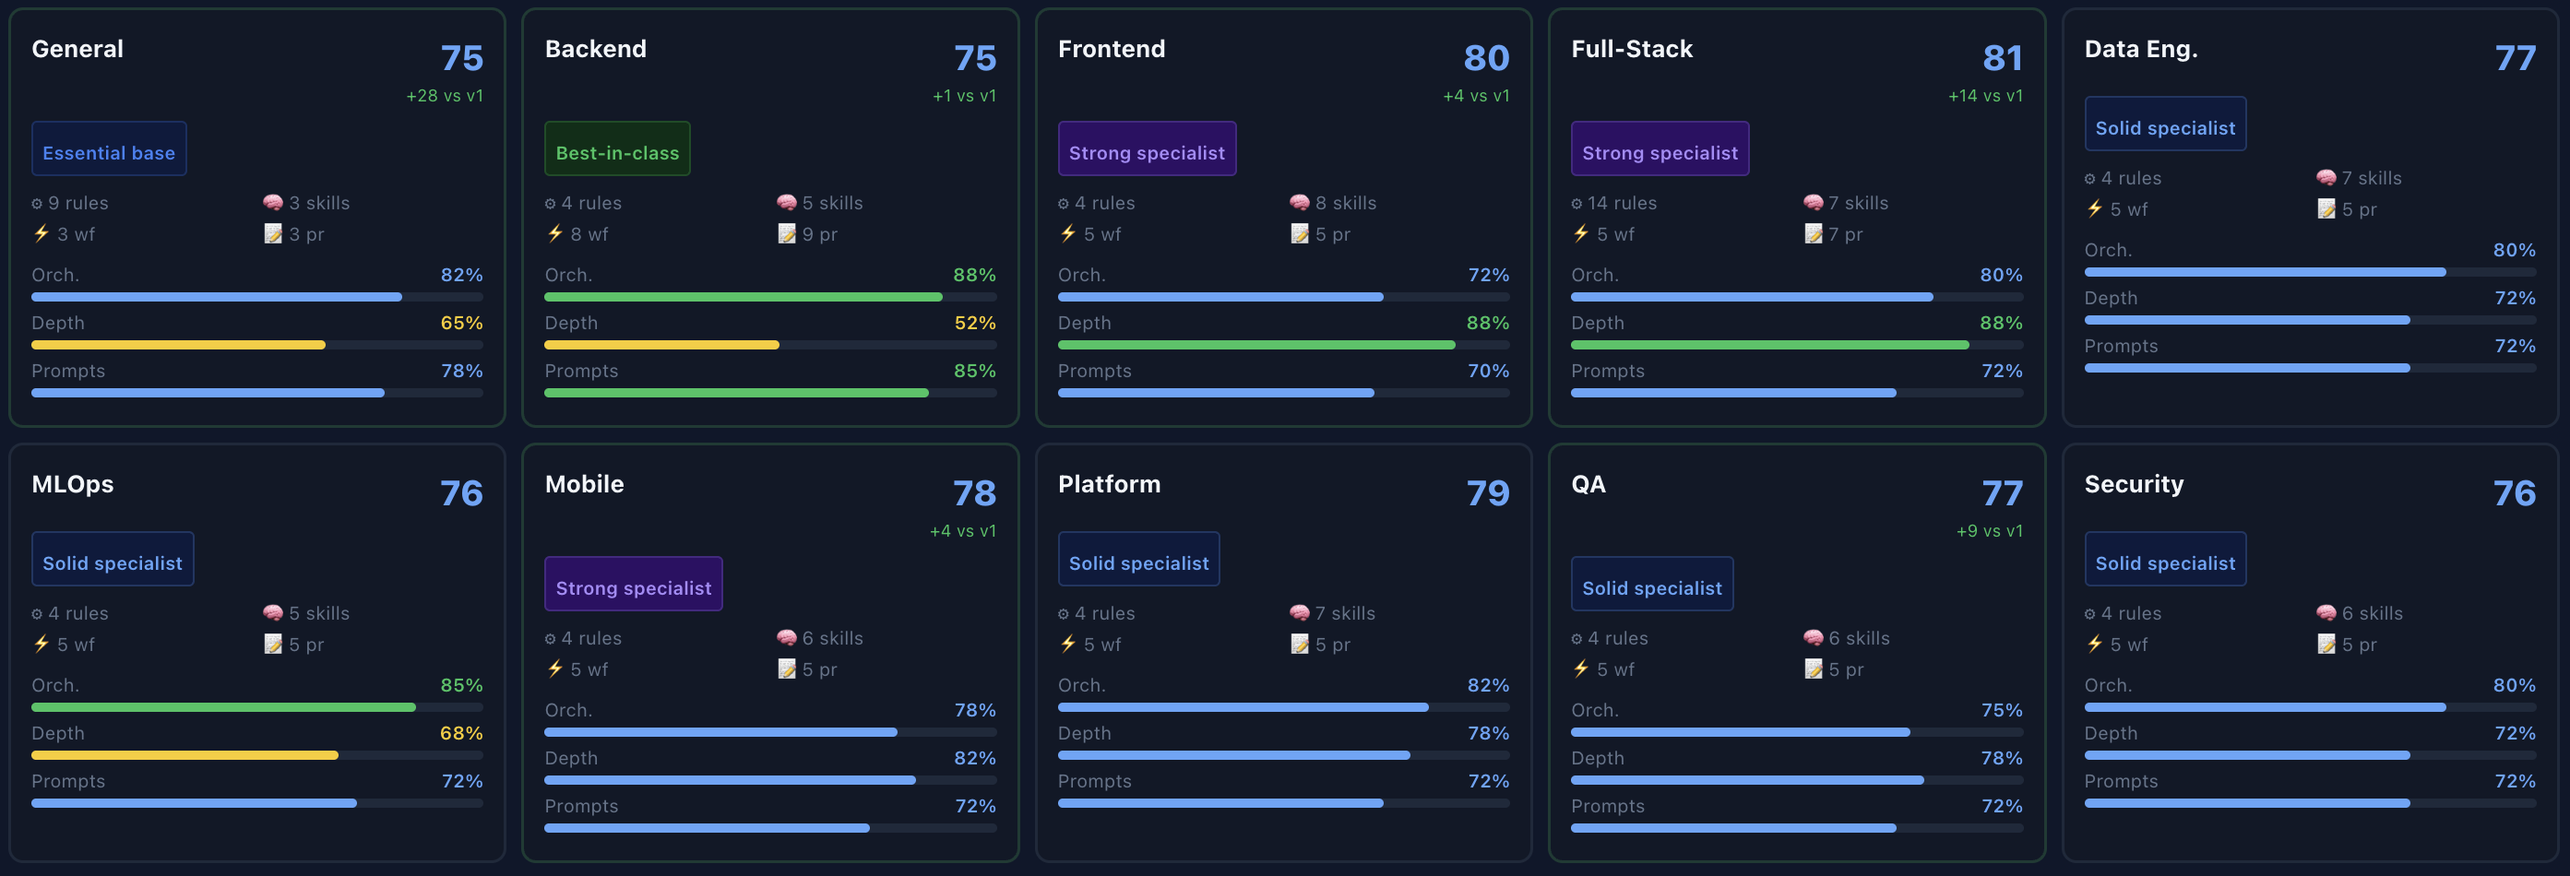
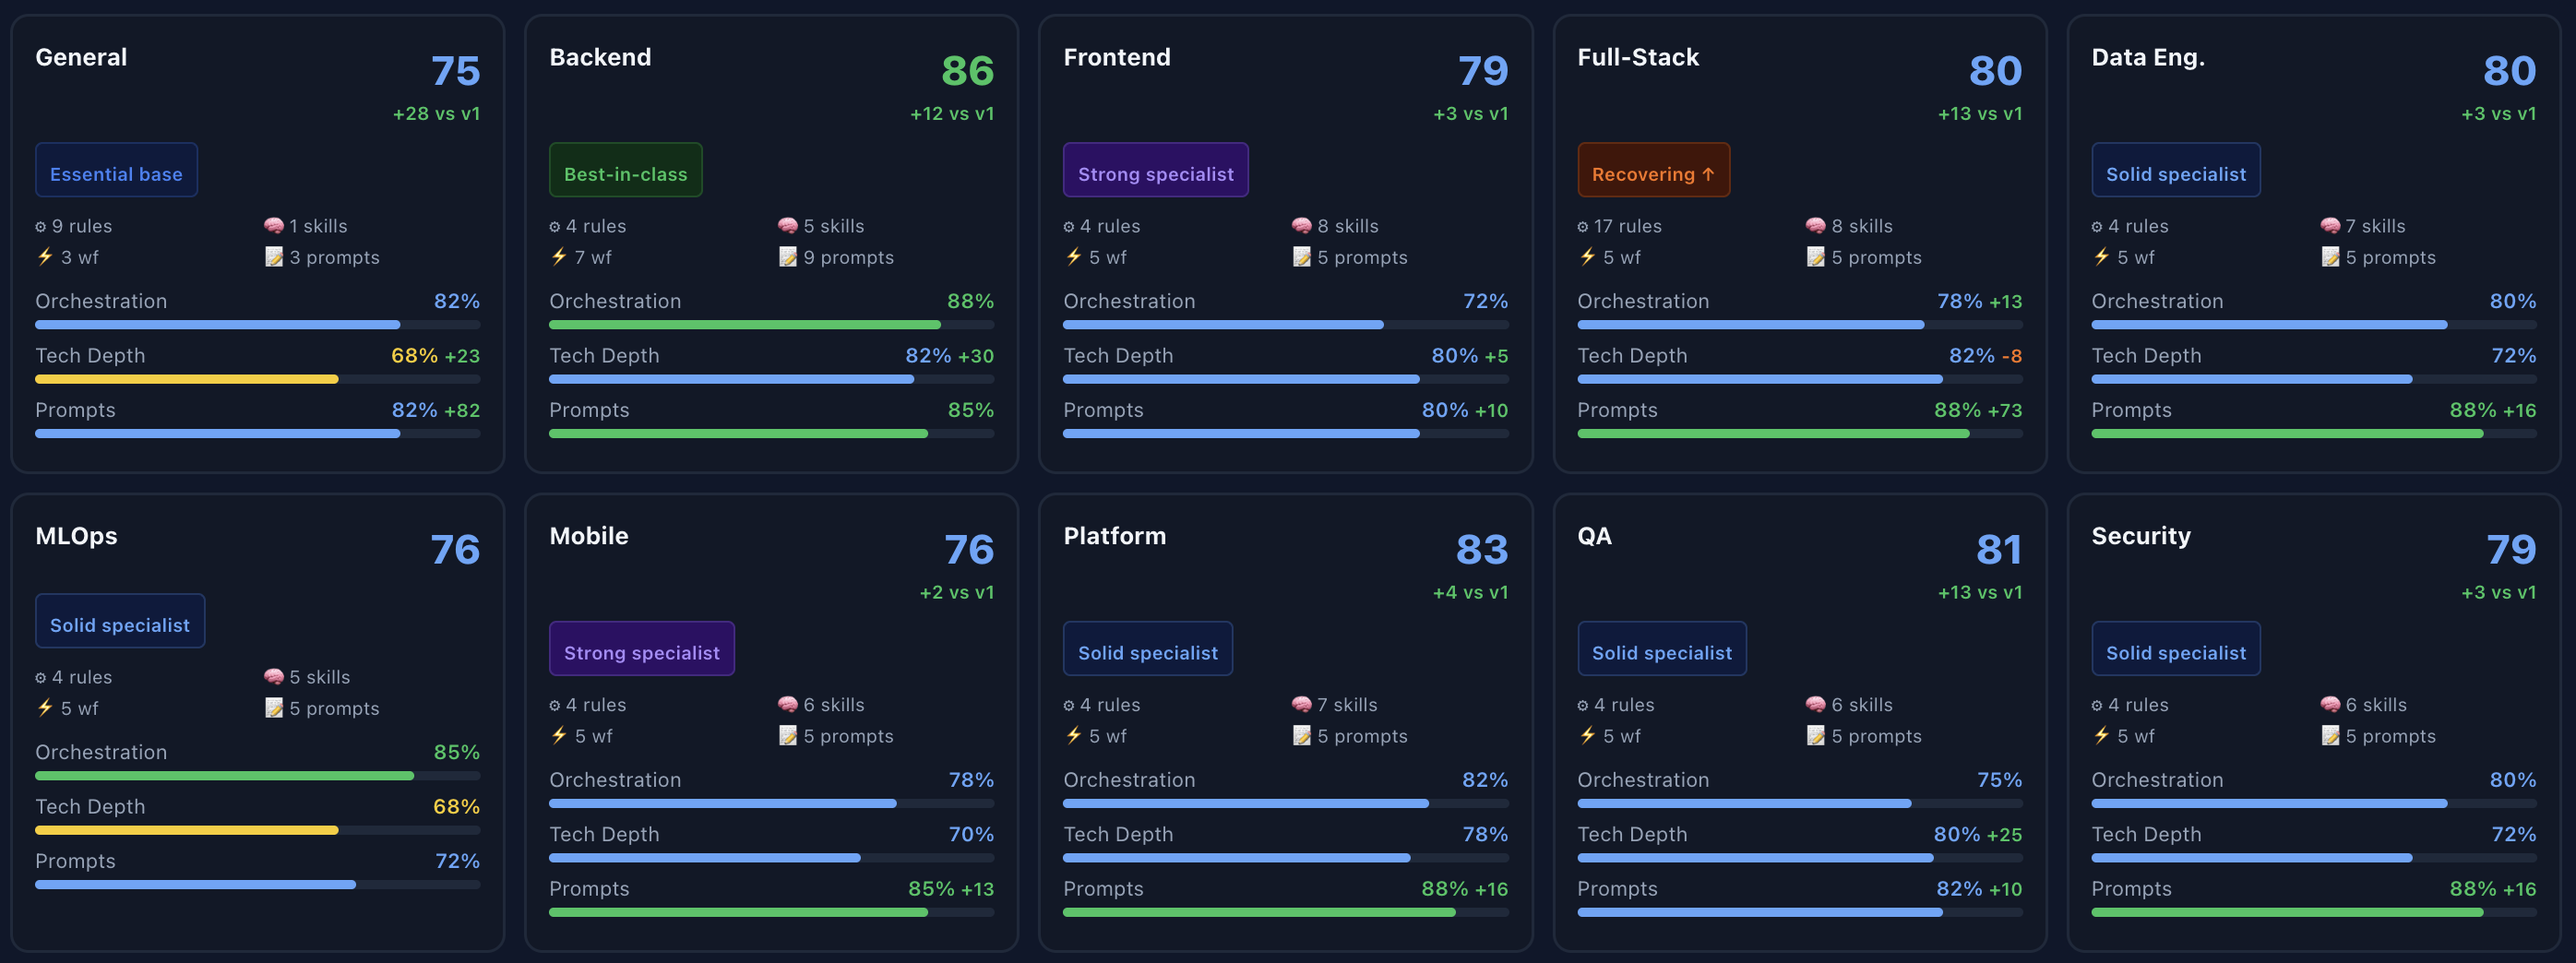
updated: prompts

diff --git a/README.md b/README.md
@@ -4,7 +4,7 @@
 A unified catalog of AgentOS specializations and the `agentos-install.sh` installer. Provides orchestrator-ready rules,
 skills, workflows, and prompts that any AI agent can load in a target project.
 
-- https://claude.ai/public/artifacts/6e937af7-efd1-4cd4-a748-2faf671eed3d
+- https://claude.ai/public/artifacts/b85436a3-712c-4317-8071-59b87b73464f
 
 ---
 
